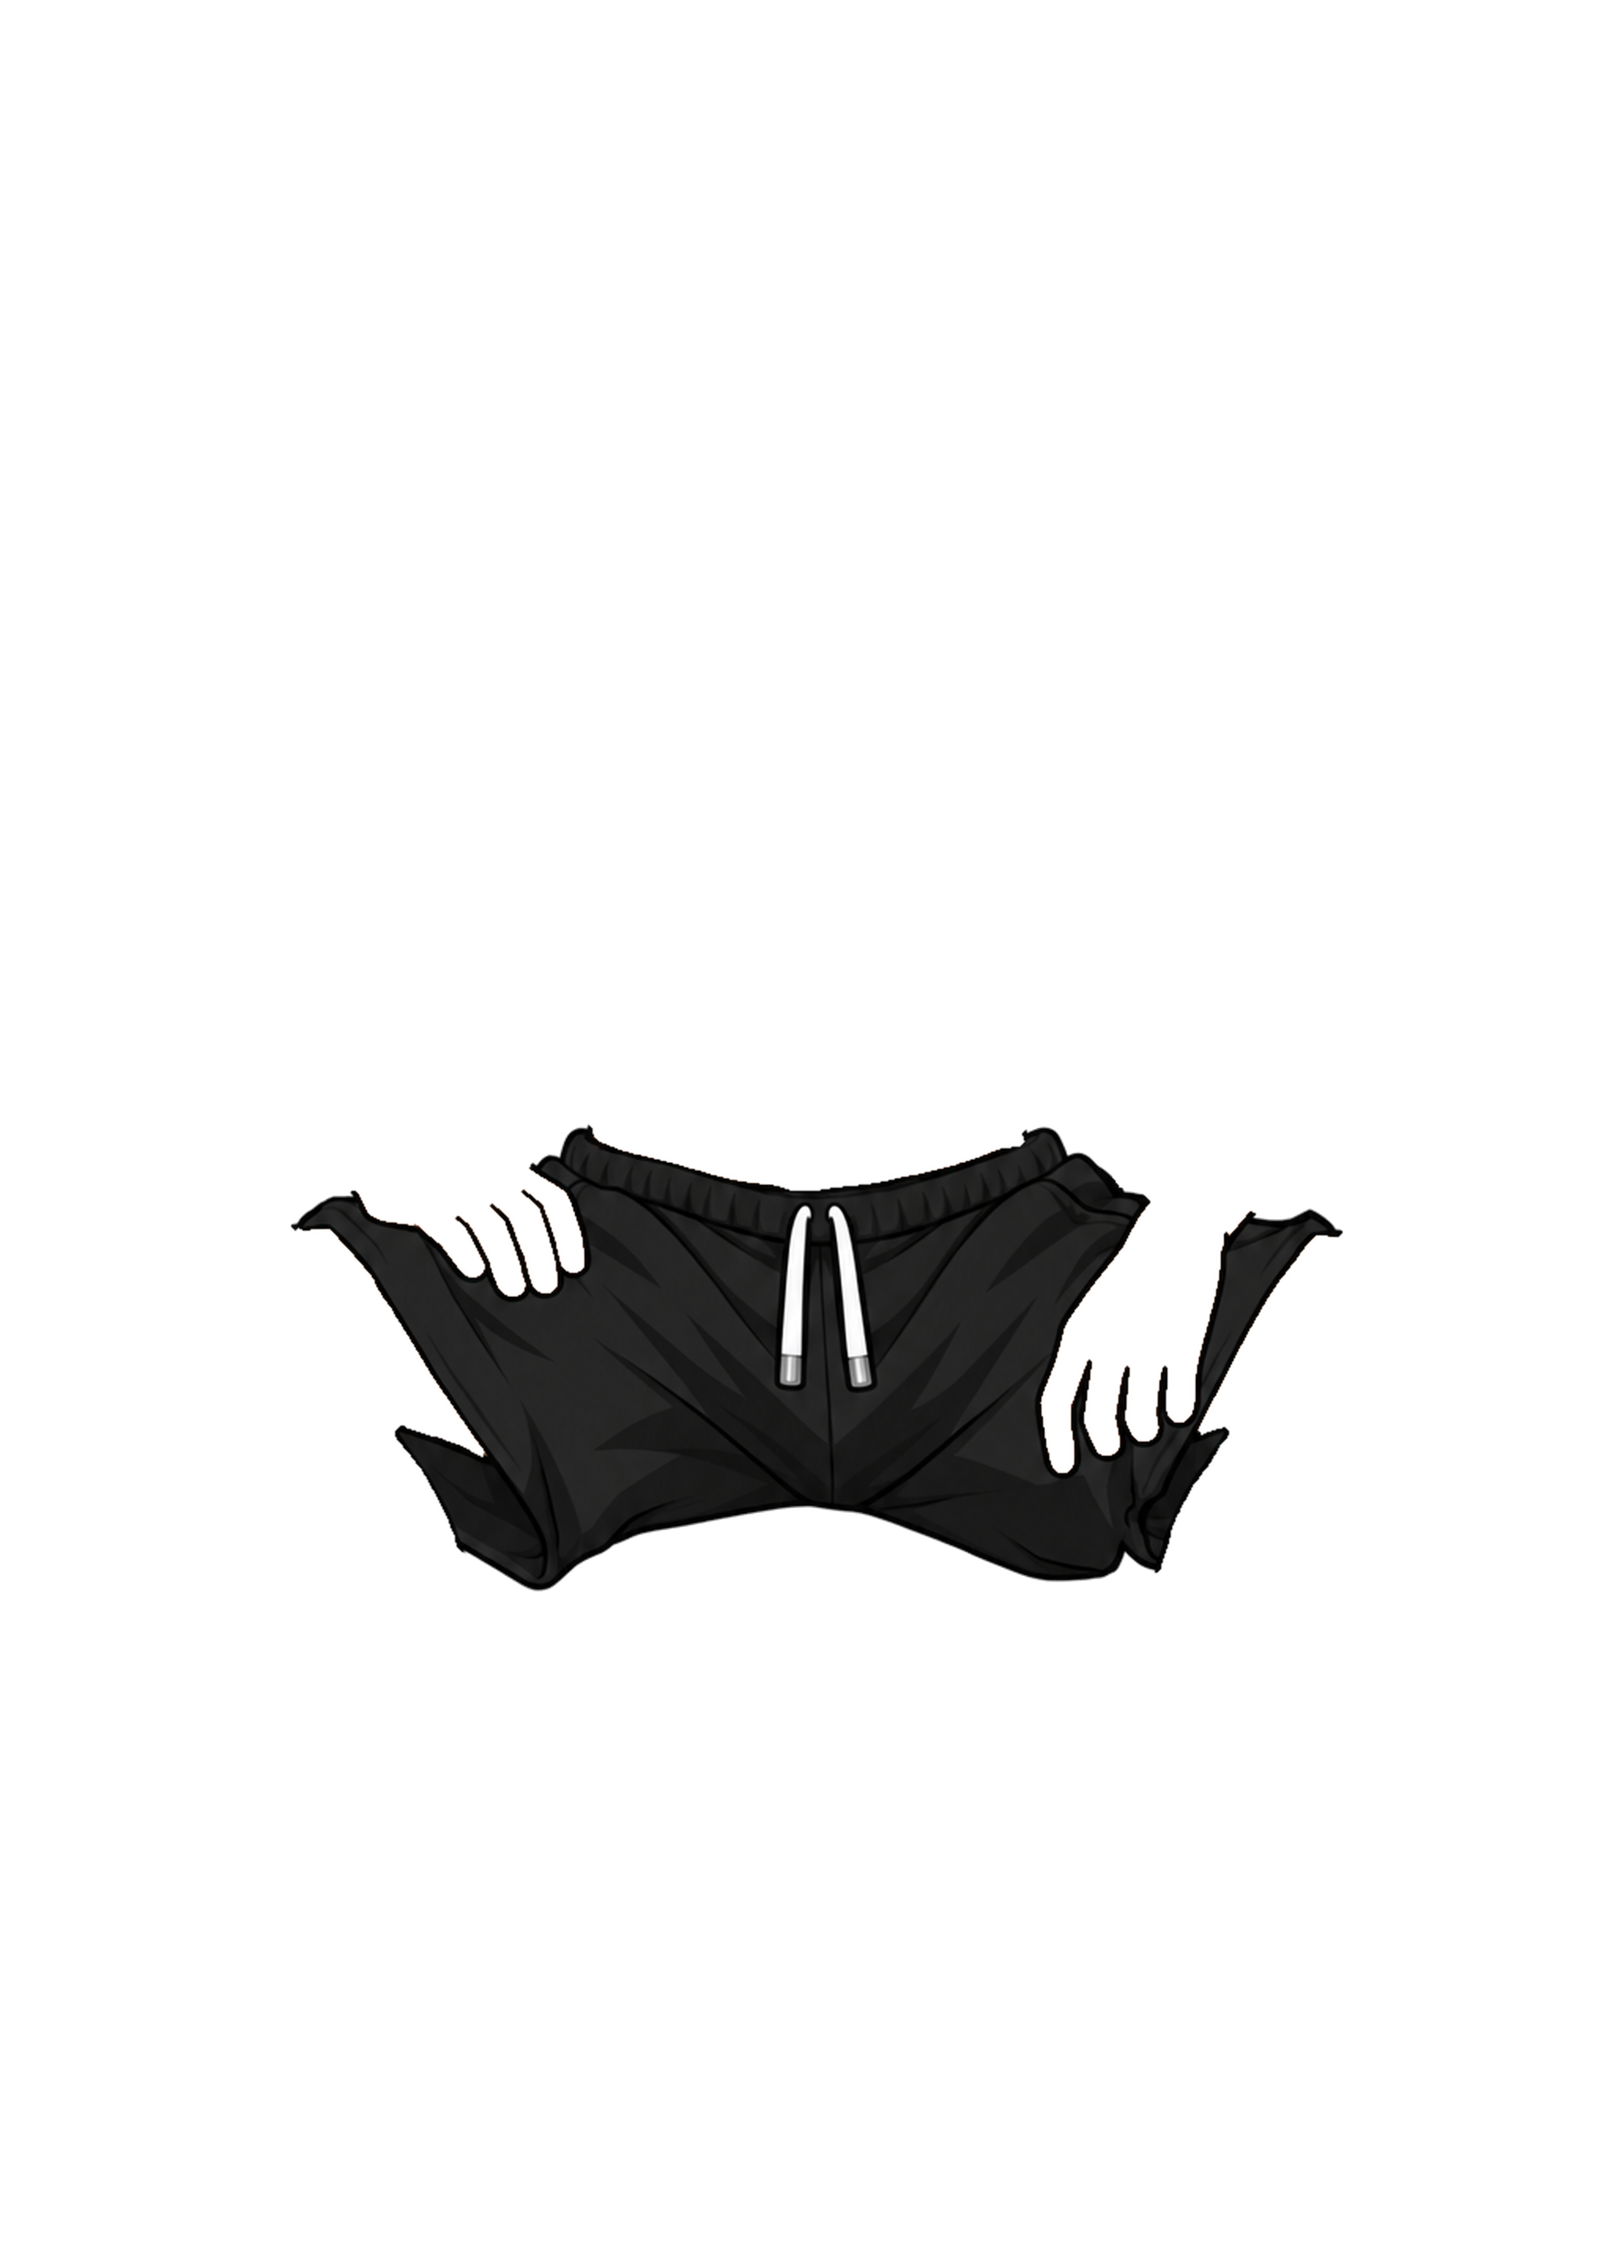
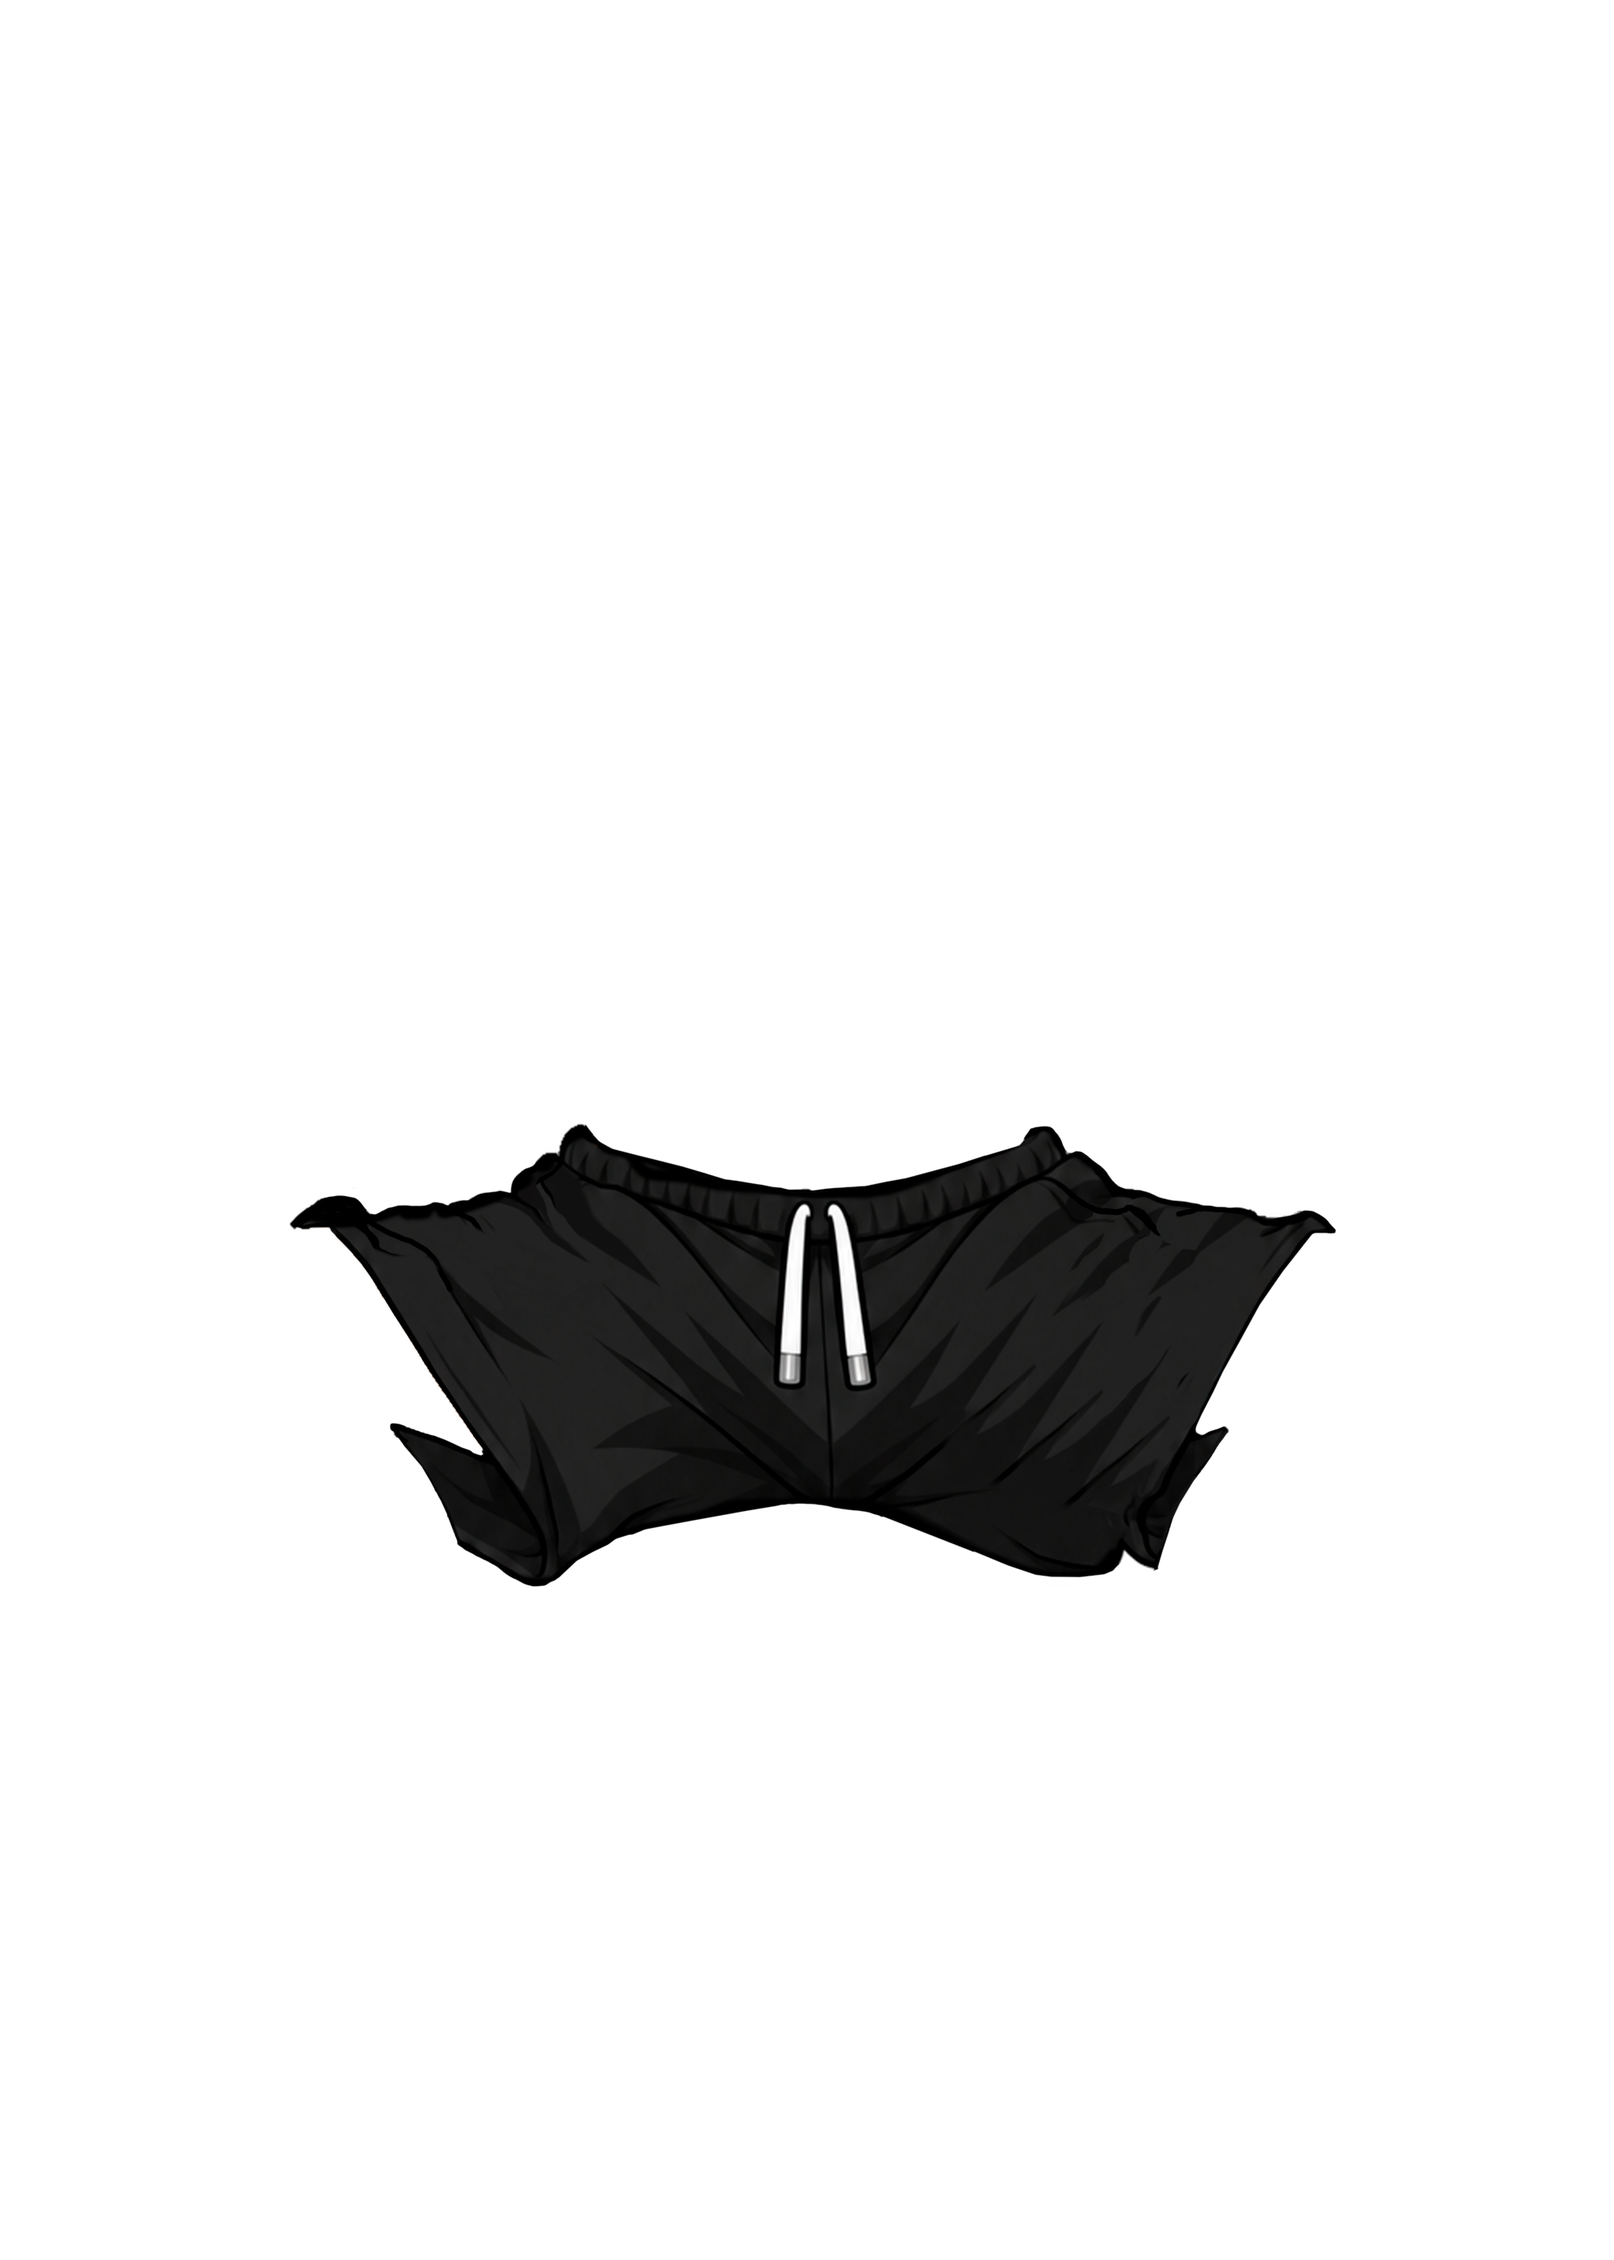
Кедр: shorts redrawn by the user (whole cloth under the hands)
Claude-Session: https://claude.ai/code/session_01E3jaUxUo8xTQNwyakAWMq3

diff --git a/src/client/preload.ts b/src/client/preload.ts
@@ -9,7 +9,7 @@ import { ASSET_FILES } from "./asset-manifest.ts";
 import { ROOM_BACKDROP, ROOM_BG } from "../content/home-scene.ts";
 
 /** cache-busting versions of redrawn art (bump when the picture changes) */
-export const ART_VER = { heroPart: 11, hair: 8, wear: 19, items: 21, pepe: 2, tattoo: 11, monitor: 2, chair: 5 } as const;
+export const ART_VER = { heroPart: 11, hair: 8, wear: 20, items: 22, pepe: 2, tattoo: 11, monitor: 2, chair: 5 } as const;
 
 /** the URL a screen really requests for a file from the manifest */
 export function usedUrl(path: string): string {

diff --git a/src/client/art/rig-look.ts b/src/client/art/rig-look.ts
@@ -36,10 +36,10 @@ export const WEAR_FIT = {
   },
   "shorts-actclose": {
     "slot": "PANTS",
-    "x": 178.0,
-    "y": 694.5,
-    "w": 656,
-    "h": 294
+    "x": 177.5,
+    "y": 694.0,
+    "w": 652,
+    "h": 291
   },
   "badge-actclose": {
     "slot": "ACCESSORY",
